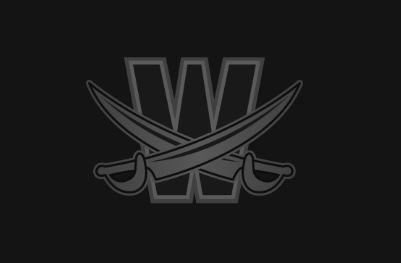
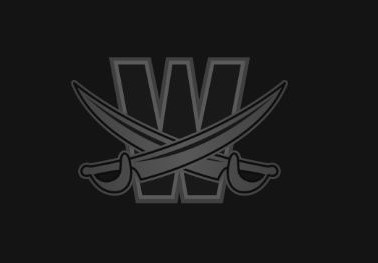
Slightly crop background img

Changed region(s): [[0.1746, 0.2129, 0.6111, 0.7909], [0.6984, 0.3042, 0.7857, 0.4563], [0.6984, 0.6084, 0.7566, 0.6996]]

diff --git a/title.css b/title.css
@@ -10,8 +10,9 @@ body {
 .page-container{
     display:flex;
     flex-direction: column;
-    margin: 22%;
+    margin: 21%;
     height: 20vh;
+    width: 50vw;
     justify-content: center;
     align-items: center;
     background-color: #8C8A87;
